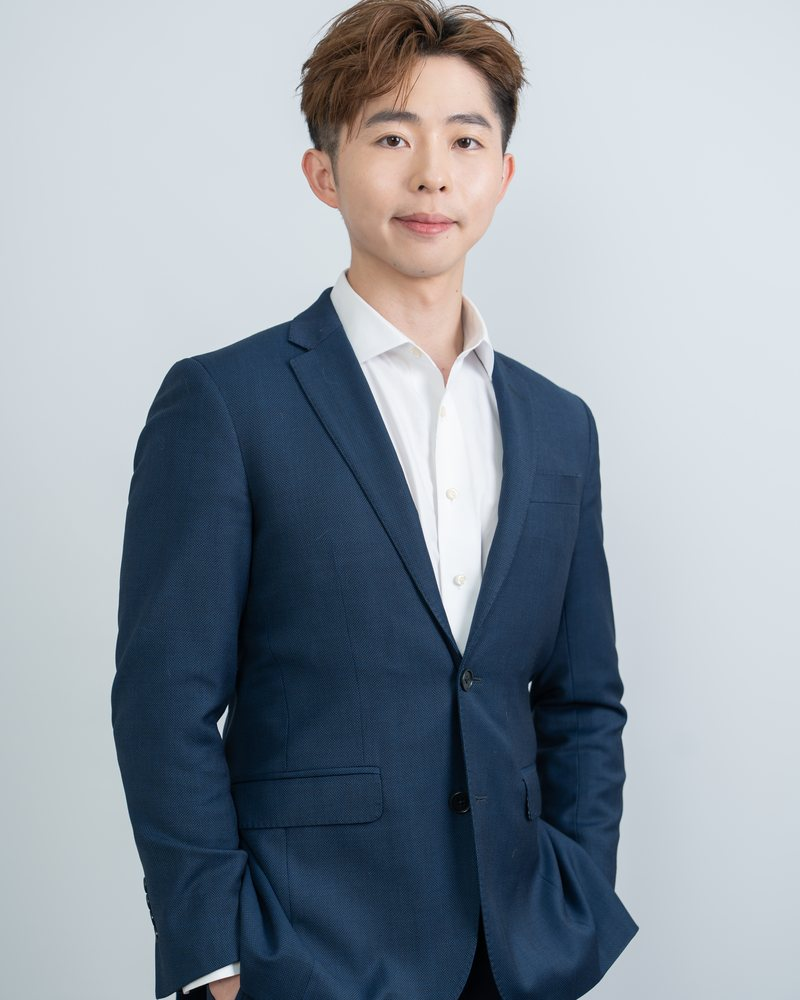
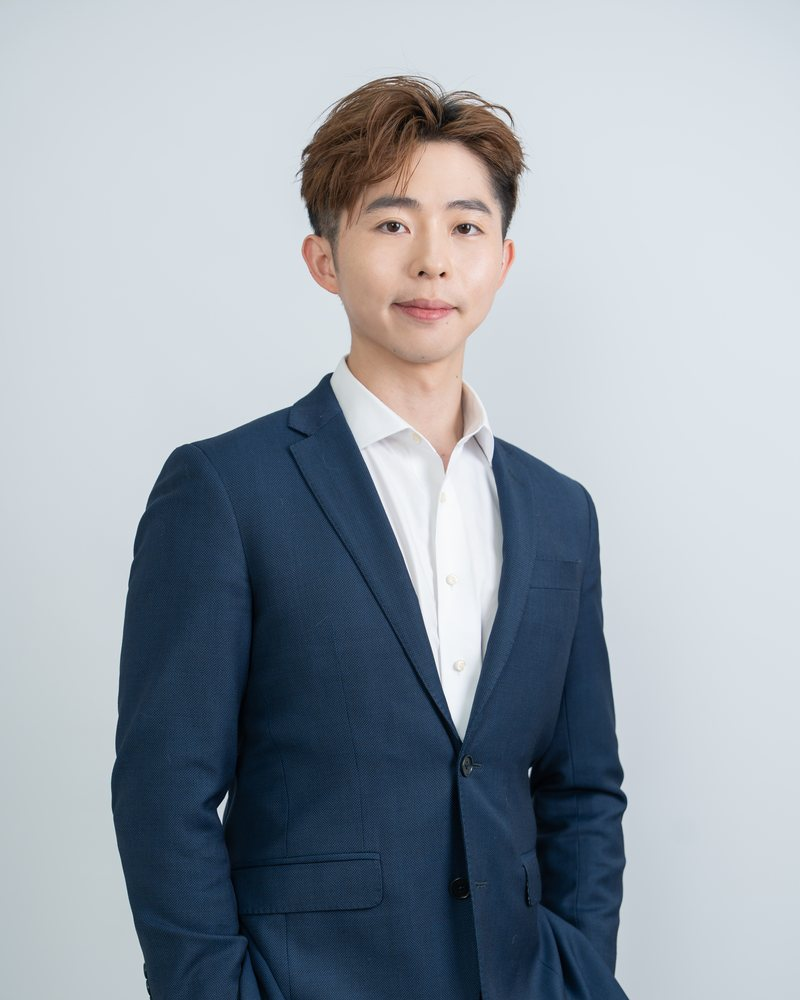
Re-crop team photos with headroom, flip Alan, update Chinese names, restore ALB badge

Changed region(s): [[0.125, 0.0, 0.8125, 1.0], [0.4062, 0.744, 0.4688, 0.775], [0.2188, 0.837, 0.25, 0.899]]

diff --git a/index-v4.html b/index-v4.html
@@ -452,7 +452,7 @@
     <div class="team-grid">
         <!-- Maggie Chan -->
         <div class="team-card featured">
-            <img class="team-photo" loading="lazy" decoding="async" src="images/team/maggie.jpg?v=3" width="800" height="1000" alt="Ms. Maggie Chan">
+            <img class="team-photo" loading="lazy" decoding="async" src="images/team/maggie.jpg?v=4" width="800" height="1000" alt="Ms. Maggie Chan">
             <div class="team-info">
                 <h3>Ms. Maggie Chan <span class="cn-inline">陳靜文律師</span></h3>
                 <div class="role en">Founder & Principal Solicitor</div>
@@ -470,7 +470,7 @@
         </div>
         <!-- Leon Chiu -->
         <div class="team-card" data-card-toggle>
-            <img class="team-photo" loading="lazy" decoding="async" src="images/team/leon.jpg?v=2" width="800" height="1000" alt="Mr. Leon Chiu">
+            <img class="team-photo" loading="lazy" decoding="async" src="images/team/leon.jpg?v=4" width="800" height="1000" alt="Mr. Leon Chiu">
             <div class="team-info">
                 <h3>Mr. Leon Chiu <span class="cn-inline">趙律師</span></h3>
                 <div class="role en">Assistant Solicitor</div>
@@ -482,7 +482,7 @@
         </div>
         <!-- Alex Li -->
         <div class="team-card" data-card-toggle>
-            <img class="team-photo" loading="lazy" decoding="async" src="images/team/alex.jpg?v=2" width="800" height="1000" alt="Mr. Alex Li">
+            <img class="team-photo" loading="lazy" decoding="async" src="images/team/alex.jpg?v=4" width="800" height="1000" alt="Mr. Alex Li">
             <div class="team-info">
                 <h3>Mr. Alex Li <span class="cn-inline">李律師</span></h3>
                 <div class="role en">Assistant Solicitor</div>
@@ -494,9 +494,9 @@
         </div>
         <!-- John Wan -->
         <div class="team-card" data-card-toggle>
-            <img class="team-photo" loading="lazy" decoding="async" src="images/team/john.jpg?v=2" width="800" height="1000" alt="Mr. John Wan">
+            <img class="team-photo" loading="lazy" decoding="async" src="images/team/john.jpg?v=4" width="800" height="1000" alt="Mr. John Wan">
             <div class="team-info">
-                <h3>Mr. John Wan <span class="cn-inline">溫律師</span></h3>
+                <h3>Mr. John Wan <span class="cn-inline">尹國鈞律師</span></h3>
                 <div class="role en">Assistant Solicitor</div>
                 <div class="role cn">助理律師</div>
                 <p class="en">Qualified in 2026 with experience in dispute resolution, including asset recovery, injunctive relief and recourse against arbitral award, criminal defence, matrimonial, and probate.</p>
@@ -506,7 +506,7 @@
         </div>
         <!-- Tindy Kwong -->
         <div class="team-card" data-card-toggle>
-            <img class="team-photo" loading="lazy" decoding="async" src="images/team/tindy.jpg?v=2" width="800" height="1000" alt="Mr. Tindy Kwong">
+            <img class="team-photo" loading="lazy" decoding="async" src="images/team/tindy.jpg?v=4" width="800" height="1000" alt="Mr. Tindy Kwong">
             <div class="team-info">
                 <h3>Mr. Tindy Kwong <span class="cn-inline">鄺先生</span></h3>
                 <div class="role en">Legal Executive</div>
@@ -518,9 +518,9 @@
         </div>
         <!-- Jayden Lee -->
         <div class="team-card" data-card-toggle>
-            <img class="team-photo" loading="lazy" decoding="async" src="images/team/jayden.jpg?v=2" width="800" height="1000" alt="Mr. Jayden Lee">
+            <img class="team-photo" loading="lazy" decoding="async" src="images/team/jayden.jpg?v=4" width="800" height="1000" alt="Mr. Jayden Lee">
             <div class="team-info">
-                <h3>Mr. Jayden Lee <span class="cn-inline">李先生</span></h3>
+                <h3>Mr. Jayden Lee <span class="cn-inline">李泫錞先生</span></h3>
                 <div class="role en">Litigation Officer</div>
                 <div class="role cn">訴訟主任</div>
                 <p class="en">Joined in 2016 with over 10 years in the profession. Experienced in civil and criminal litigation at all levels of court.</p>
@@ -530,7 +530,7 @@
         </div>
         <!-- Alan Ng -->
         <div class="team-card" data-card-toggle>
-            <img class="team-photo" loading="lazy" decoding="async" src="images/team/alan.jpg?v=2" width="800" height="1000" alt="Mr. Alan Ng">
+            <img class="team-photo" loading="lazy" decoding="async" src="images/team/alan.jpg?v=4" width="800" height="1000" alt="Mr. Alan Ng">
             <div class="team-info">
                 <h3>Mr. Alan Ng <span class="cn-inline">吳先生</span></h3>
                 <div class="role en">Litigation Officer</div>
@@ -552,7 +552,7 @@
     </div>
     <div class="award-grid">
         <div class="award-card">
-            <div class="award-badge"><img loading="lazy" decoding="async" src="award-alb-2026.png?v=2" alt="ALB Hong Kong Law Awards 2026 Finalist" width="117" height="101"></div>
+            <div class="award-badge"><img loading="lazy" decoding="async" src="award-alb-2026.png?v=3" alt="ALB Hong Kong Law Awards 2026 Finalist" width="200" height="262"></div>
             <div class="award-status"><span class="en-inline">Finalist · 2026</span><span class="cn-inline">入圍決選 · 2026</span></div>
             <h3><span class="en-inline">ALB Hong Kong Law Awards</span><span class="cn-inline">ALB 香港法律大獎</span></h3>
             <p class="en">Run by Asian Legal Business, the Thomson Reuters legal title for the region, and held every year since 2001. Finalists are chosen on written submission by an independent panel of senior figures from the profession. The 2026 Hong Kong edition was the programme's 25th and drew a record number of entries.</p>

diff --git a/index.html b/index.html
@@ -452,7 +452,7 @@
     <div class="team-grid">
         <!-- Maggie Chan -->
         <div class="team-card featured">
-            <img class="team-photo" loading="lazy" decoding="async" src="images/team/maggie.jpg?v=3" width="800" height="1000" alt="Ms. Maggie Chan">
+            <img class="team-photo" loading="lazy" decoding="async" src="images/team/maggie.jpg?v=4" width="800" height="1000" alt="Ms. Maggie Chan">
             <div class="team-info">
                 <h3>Ms. Maggie Chan <span class="cn-inline">陳靜文律師</span></h3>
                 <div class="role en">Founder & Principal Solicitor</div>
@@ -470,7 +470,7 @@
         </div>
         <!-- Leon Chiu -->
         <div class="team-card" data-card-toggle>
-            <img class="team-photo" loading="lazy" decoding="async" src="images/team/leon.jpg?v=2" width="800" height="1000" alt="Mr. Leon Chiu">
+            <img class="team-photo" loading="lazy" decoding="async" src="images/team/leon.jpg?v=4" width="800" height="1000" alt="Mr. Leon Chiu">
             <div class="team-info">
                 <h3>Mr. Leon Chiu <span class="cn-inline">趙律師</span></h3>
                 <div class="role en">Assistant Solicitor</div>
@@ -482,7 +482,7 @@
         </div>
         <!-- Alex Li -->
         <div class="team-card" data-card-toggle>
-            <img class="team-photo" loading="lazy" decoding="async" src="images/team/alex.jpg?v=2" width="800" height="1000" alt="Mr. Alex Li">
+            <img class="team-photo" loading="lazy" decoding="async" src="images/team/alex.jpg?v=4" width="800" height="1000" alt="Mr. Alex Li">
             <div class="team-info">
                 <h3>Mr. Alex Li <span class="cn-inline">李律師</span></h3>
                 <div class="role en">Assistant Solicitor</div>
@@ -494,9 +494,9 @@
         </div>
         <!-- John Wan -->
         <div class="team-card" data-card-toggle>
-            <img class="team-photo" loading="lazy" decoding="async" src="images/team/john.jpg?v=2" width="800" height="1000" alt="Mr. John Wan">
+            <img class="team-photo" loading="lazy" decoding="async" src="images/team/john.jpg?v=4" width="800" height="1000" alt="Mr. John Wan">
             <div class="team-info">
-                <h3>Mr. John Wan <span class="cn-inline">溫律師</span></h3>
+                <h3>Mr. John Wan <span class="cn-inline">尹國鈞律師</span></h3>
                 <div class="role en">Assistant Solicitor</div>
                 <div class="role cn">助理律師</div>
                 <p class="en">Qualified in 2026 with experience in dispute resolution, including asset recovery, injunctive relief and recourse against arbitral award, criminal defence, matrimonial, and probate.</p>
@@ -506,7 +506,7 @@
         </div>
         <!-- Tindy Kwong -->
         <div class="team-card" data-card-toggle>
-            <img class="team-photo" loading="lazy" decoding="async" src="images/team/tindy.jpg?v=2" width="800" height="1000" alt="Mr. Tindy Kwong">
+            <img class="team-photo" loading="lazy" decoding="async" src="images/team/tindy.jpg?v=4" width="800" height="1000" alt="Mr. Tindy Kwong">
             <div class="team-info">
                 <h3>Mr. Tindy Kwong <span class="cn-inline">鄺先生</span></h3>
                 <div class="role en">Legal Executive</div>
@@ -518,9 +518,9 @@
         </div>
         <!-- Jayden Lee -->
         <div class="team-card" data-card-toggle>
-            <img class="team-photo" loading="lazy" decoding="async" src="images/team/jayden.jpg?v=2" width="800" height="1000" alt="Mr. Jayden Lee">
+            <img class="team-photo" loading="lazy" decoding="async" src="images/team/jayden.jpg?v=4" width="800" height="1000" alt="Mr. Jayden Lee">
             <div class="team-info">
-                <h3>Mr. Jayden Lee <span class="cn-inline">李先生</span></h3>
+                <h3>Mr. Jayden Lee <span class="cn-inline">李泫錞先生</span></h3>
                 <div class="role en">Litigation Officer</div>
                 <div class="role cn">訴訟主任</div>
                 <p class="en">Joined in 2016 with over 10 years in the profession. Experienced in civil and criminal litigation at all levels of court.</p>
@@ -530,7 +530,7 @@
         </div>
         <!-- Alan Ng -->
         <div class="team-card" data-card-toggle>
-            <img class="team-photo" loading="lazy" decoding="async" src="images/team/alan.jpg?v=2" width="800" height="1000" alt="Mr. Alan Ng">
+            <img class="team-photo" loading="lazy" decoding="async" src="images/team/alan.jpg?v=4" width="800" height="1000" alt="Mr. Alan Ng">
             <div class="team-info">
                 <h3>Mr. Alan Ng <span class="cn-inline">吳先生</span></h3>
                 <div class="role en">Litigation Officer</div>
@@ -552,7 +552,7 @@
     </div>
     <div class="award-grid">
         <div class="award-card">
-            <div class="award-badge"><img loading="lazy" decoding="async" src="award-alb-2026.png?v=2" alt="ALB Hong Kong Law Awards 2026 Finalist" width="117" height="101"></div>
+            <div class="award-badge"><img loading="lazy" decoding="async" src="award-alb-2026.png?v=3" alt="ALB Hong Kong Law Awards 2026 Finalist" width="200" height="262"></div>
             <div class="award-status"><span class="en-inline">Finalist · 2026</span><span class="cn-inline">入圍決選 · 2026</span></div>
             <h3><span class="en-inline">ALB Hong Kong Law Awards</span><span class="cn-inline">ALB 香港法律大獎</span></h3>
             <p class="en">Run by Asian Legal Business, the Thomson Reuters legal title for the region, and held every year since 2001. Finalists are chosen on written submission by an independent panel of senior figures from the profession. The 2026 Hong Kong edition was the programme's 25th and drew a record number of entries.</p>

diff --git a/sw.js b/sw.js
@@ -4,7 +4,7 @@
  * is not the current CACHE, and skipWaiting()/clients.claim() make the new
  * worker take over promptly so users do not get stuck on a stale version.
  */
-const CACHE = 'ccm-v4-20261029d';
+const CACHE = 'ccm-v4-20261029e';
 const ASSETS = [
   './',
   './index.html',
